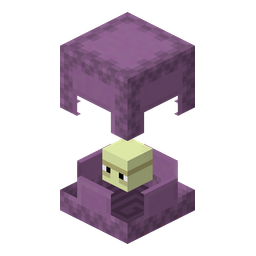
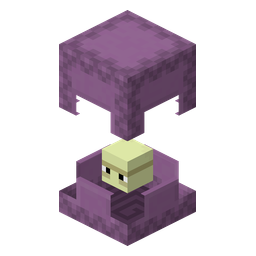
feat(stellarity): cap nhat anh render 3D chinh thuc cho quai vat Shulker thuong (BUG-86)

diff --git a/stellarity.html b/stellarity.html
@@ -1324,13 +1324,13 @@
             <!-- Mob 2: Shulker & Bullet Hell -->
             <article class="item-recipe-card">
               <div class="item-recipe-top">
-                <div class="item-sprite-box" data-mc-tooltip="Đang đợi ảnh">
-                  <img src="assets/images/entities/placeholder_awaiting.png" alt="Đang đợi ảnh" class="placeholder-img" loading="lazy">
+                <div class="item-sprite-box" data-mc-tooltip="Shulker">
+                  <img src="assets/images/entities/shulker.png" alt="Quái vật Shulker" class="mob-render-img" loading="lazy">
                 </div>
                 <div class="item-meta">
                   <div class="item-meta-header">
                     <h3 class="item-meta-title">Shulker (Quái Vỏ Cứng End City)</h3>
-                    <span class="mechanic-badge badge-stellar">Đang đợi ảnh</span>
+                    <span class="mechanic-badge badge-ender">Quái Vật End City</span>
                   </div>
                   <div class="item-stats-line">Máu: 30 HP · Giáp: 20 (khi đóng vỏ) · Hiệu ứng: Levitation</div>
                   <p class="item-effect-desc">
@@ -3920,8 +3920,8 @@
                   <span>Tỉ lệ rơi 75% (+5%/cấp Looting)</span>
                 </div>
                 <div class="recipe-ingredients">
-                  <span class="recipe-ing mc-slot" data-mc-tooltip="Shulker (Đang đợi ảnh)">
-                    <img src="assets/images/entities/placeholder_awaiting.png" alt="Shulker" class="recipe-ing-icon" loading="lazy">
+                  <span class="recipe-ing mc-slot" data-mc-tooltip="Shulker">
+                    <img src="assets/images/entities/shulker.png" alt="Shulker" class="recipe-ing-icon" loading="lazy">
                   </span>
                   <span class="recipe-arrow">➜</span>
                   <span class="recipe-ing mc-slot" data-mc-tooltip="Shulker Body">

diff --git a/docs/03 - Development/Test Matrix & Bug Tracking.md b/docs/03 - Development/Test Matrix & Bug Tracking.md
@@ -148,6 +148,7 @@
 | **BUG-83** | P2 | Chưa có thẻ hiển thị độc lập cho vật phẩm ẩm thực / nguyên liệu sống `Enderman Flesh` trong Mục 9, thiếu thông số tỷ lệ rơi từ Enderman (0-2 miếng) và hiệu ứng ăn sống (hồi 4 đói, 0.8 saturation, dịch chuyển 8 ô, 80% đói trong 40s) | (1) Bổ sung thẻ Thực Phẩm & Nguyên Liệu chuyên biệt `Thịt Enderman (Enderman Flesh)` vào Mục 9 (`#recipe-cauldron-food`) với ảnh sprite pixel-art 64x64 Nearest Neighbor trên nền trong suốt (`assets/images/foods/enderman_flesh.png`); (2) Chuẩn hóa thông số cơ chế tiêu thụ: Hồi 4 điểm thức ăn (2 đùi gà), 0.8 điểm bão hòa, dịch chuyển ngẫu nhiên tối đa 8 blocks theo bất kỳ hướng nào, 80% tỷ lệ dính hiệu ứng Đói Khát (Hunger) trong 40 giây; (3) Chuẩn hóa cách nhận: Rơi 0–2 miếng mỗi khi tiêu diệt Enderman; (4) Kết nối liền mạch công thức chế biến: Làm nguyên liệu chính nấu Thịt Enderman Nướng (Grilled Enderman Flesh) và gỏi Frozen Carpaccio; (5) Đồng bộ thẻ mob Enderman tại Mục 5; (6) Kiểm định tự động: 342 ảnh (184 ảnh độc nhất, 0 lỗi missing), 100% thẻ HTML đóng mở cân bằng. | 🟢 Đã sửa |
 | **BUG-84** | P2 | Sửa lại mục bánh `Shepherd's Pie` (thiếu slot thành phẩm đầu ra, ghi sai chi phí nấu 5 Breath) và thay thế triệt để texture 2D phẳng cũ của `Shulker Body` sang texture 3D Isometric chính thức trên toàn trang | (1) Cập nhật và ghi đè tệp hình ảnh `shulker_body.png` tại cả `assets/images/foods/` và `assets/images/ingredients/` sang ảnh render 3D Isometric Minecraft lập phương chính thức từ người dùng (`media_1794008269015_41927b6b.png`) 64x64 pixel-art trên nền trong suốt 100%; (2) Hoàn thiện cấu trúc công thức món bánh `Shepherd's Pie`: Bổ sung mũi tên chuyển đổi `➜` và slot kết quả thành phẩm `<div class="mc-slot" data-mc-tooltip="Shepherd's Pie">`, chuẩn hóa chi phí vạc (1 trong 7 lần nấu bằng 1 Dragon's Breath); (3) Đồng bộ hiển thị texture 3D mới tại ô Shulker Body trong Shepherd's Pie, ô "Phần thưởng chiến thắng" của đại Boss Shulking (Mục 5), và cả 2 vị trí trên thẻ ẩm thực Shulker Body (Mục 9); (4) Kiểm định tự động: 343 ảnh (183 ảnh độc nhất, 0 lỗi missing), 100% thẻ HTML đóng mở cân bằng. | 🟢 Đã sửa |
 | **BUG-85** | P2 | Lỗi hiển thị thô ký tự định dạng markdown (`**`) trong đoạn mô tả hiệu ứng (`.item-effect-desc`) của 8 thẻ vũ khí / trang bị thuộc Mục 7 (`Stellar Striker`, `Kaleidoscope`, `Prismatic Punch`, `Prismember`, `Fluffy Hammer of Justice`, `Sharanga`, `Call of the Void`, `Shulker Tools & Weapons`) thay vì hiển thị chữ in đậm HTML | (1) Thay thế toàn bộ 16 cụm ký tự thô `**...**` bằng thẻ ngữ nghĩa `<strong>...</strong>` chuẩn HTML5; (2) Chuẩn hóa hiển thị in đậm nổi bật cho các từ khóa chỉ số quan trọng (phím bấm, sát thương, hiệu ứng Voided I, Prismatic Blast, Haste I vĩnh viễn...); (3) Rà soát toàn bộ dự án đảm bảo không còn tàn dư markdown thô; (4) Kiểm định tự động: 343 ảnh đạt 0 lỗi missing và 100% thẻ HTML đóng mở cân bằng. | 🟢 Đã sửa |
+| **BUG-86** | P2 | Cập nhật ảnh chính thức cho thực thể quái vật Shulker thường (`assets/images/entities/shulker.png`) từ ảnh chụp render 3D mở vỏ của người dùng (`media_1794008710633_62a82acf.png`), thay thế toàn bộ ảnh cũ/placeholder của Shulker (giữ nguyên Boss Shulking) | (1) Xử lý khử sạch 100% nền xanh nhạt `[230, 239, 244]` bằng thuật toán flood-fill đa hướng từ biên, bảo toàn trọn vẹn chi tiết vỏ tím bay lơ lửng, vòng xoắn ốc bên trong và khối thân đầu Shulker trên nền trong suốt alpha; (2) Trim bounding box và căn giữa cân đối trong canvas $256 \times 256\text{ px}$ lưu vào `assets/images/entities/shulker.png` thay thế vĩnh viễn ảnh cũ; (3) Cập nhật thẻ quái vật Mob 2 Shulker (Mục 5 dòng 1324) gỡ bỏ placeholder "Đang đợi ảnh", chuyển sang ảnh chính thức với lớp `.mob-render-img` và badge `Quái Vật End City`; (4) Đồng bộ ô slot nguồn rơi quái vật Shulker tại thẻ ẩm thực Shulker Body (Mục 9 dòng 3923); (5) Kiểm định tự động: 343 ảnh (184 ảnh độc nhất, 0 lỗi missing), 100% thẻ HTML đóng mở cân bằng. | 🟢 Đã sửa |
 
 
 
